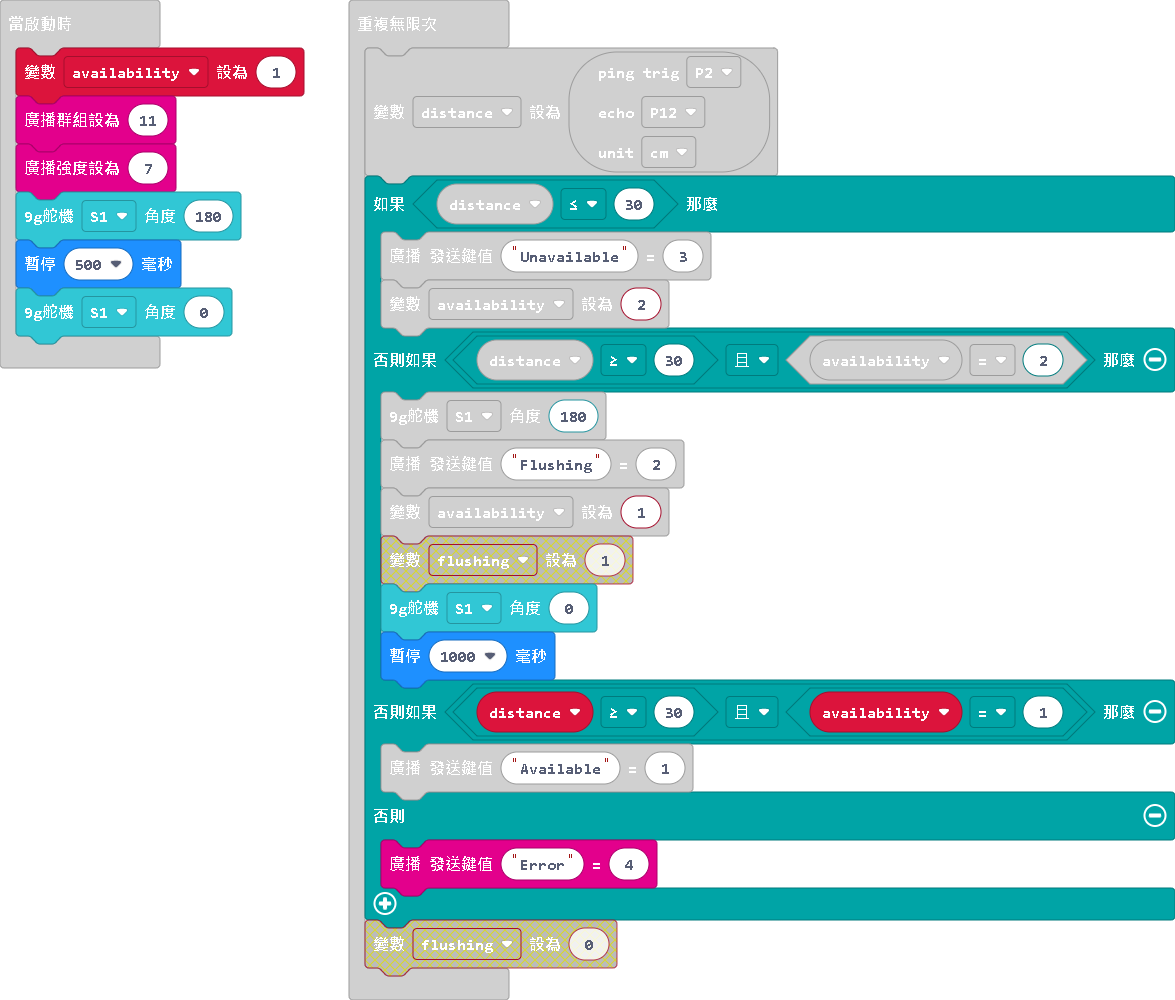
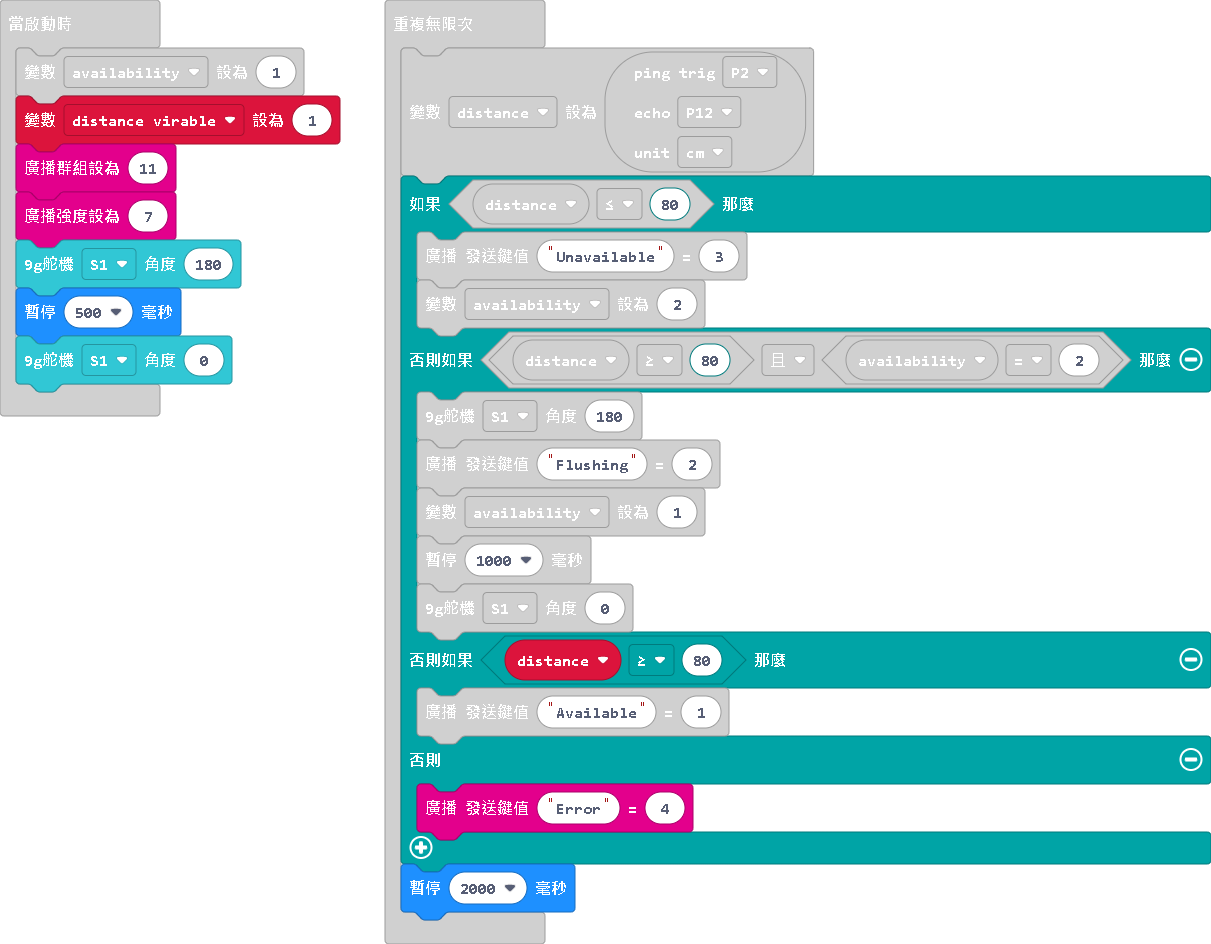
更新 main.blocks, main.ts

diff --git a/main.ts b/main.ts
@@ -1,5 +1,6 @@
 let distance = 0
 let availability = 1
+let distance_virable = 1
 radio.setGroup(11)
 radio.setTransmitPower(7)
 robotbit.Servo(robotbit.Servos.S1, 180)
@@ -14,18 +15,19 @@ basic.forever(function () {
     DigitalPin.P12,
     PingUnit.Centimeters
     )
-    if (distance <= 30) {
+    if (distance <= 80) {
         radio.sendValue("Unavailable", 3)
         availability = 2
-    } else if (distance >= 30 && availability == 2) {
+    } else if (distance >= 80 && availability == 2) {
         robotbit.Servo(robotbit.Servos.S1, 180)
         radio.sendValue("Flushing", 2)
         availability = 1
         basic.pause(1000)
         robotbit.Servo(robotbit.Servos.S1, 0)
-    } else if (distance >= 30 && availability == 1) {
+    } else if (distance >= 80) {
         radio.sendValue("Available", 1)
     } else {
         radio.sendValue("Error", 4)
     }
+    basic.pause(2000)
 })
